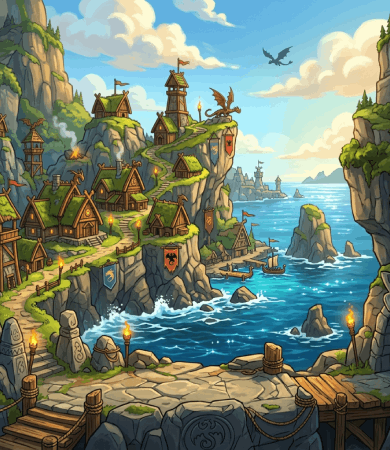
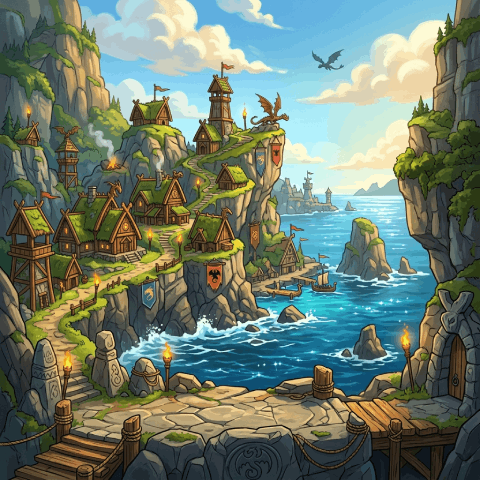
Per-device backgrounds: 390x450 for Bip 6, 480x480 full-bleed for Active 3 Balance

diff --git a/page/layouts.js b/page/layouts.js
@@ -10,9 +10,11 @@
 //
 // Rules:
 // - This file owns everything that MAY differ per device: positions, sizes,
-//   insets, slot counts. Colors, fonts, alphas, radii, asset paths and
-//   asset-intrinsic numbers (energy-bar slot map, badge heuristics) stay in
-//   ./index.style.js and are identical on all devices.
+//   insets, slot counts, plus the background image sources (BG_HOME_SRC /
+//   BG_DRAGON_SRC — 390x450 art for Bip 6, 480x480 art for round). Colors,
+//   fonts, alphas, radii, other asset paths and asset-intrinsic numbers
+//   (energy-bar slot map, badge heuristics) stay in ./index.style.js and
+//   are identical on all devices.
 // - Zepp OS IMG widgets draw 1:1 (no runtime scaling), so a layout must never
 //   size a widget box smaller than its PNG source — that would crop the art.
 //   All icon/bar/dragon sizes below are therefore identical across profiles;
@@ -53,6 +55,8 @@ const DEVICE_SOURCE_PROFILE = {
 // ---------------------------------------------------------------------------
 export const BIP6_LAYOUT = {
   BG_X: 0, BG_Y: 0, BG_W: 390, BG_H: 450,
+  BG_HOME_SRC: 'bg/bg-home_390x450.png',
+  BG_DRAGON_SRC: 'bg/bg-dragon_390x450.png',
   PANEL_X: 25, PANEL_Y: 40, PANEL_W: 340, PANEL_H: 370,
   BTN_W: 160, BTN_H: 48, BTN_CENTER_X: 90, BTN_BOTTOM_OFFSET: 70,
   MODAL_PAD: 20, MODAL_TITLE_Y: 12, MODAL_TITLE_H: 34,
@@ -118,10 +122,12 @@ export const BIP6_LAYOUT = {
 // bottom-anchored modal element lands on the same absolute Y as before.
 // ---------------------------------------------------------------------------
 export const ROUND480_LAYOUT = {
-  // round: native 390x450 art centered (45,15); full-bleed would leave an
-  // asymmetric empty strip (source is smaller than the box). TODO: add true
-  // 480x480 bg assets, then switch to (0,0,480,480).
-  BG_X: 45, BG_Y: 15, BG_W: 390, BG_H: 450,
+  // round: native 480x480 full-bleed art (see assets.json — bg-home and
+  // bg-dragon are produced in both 390x450 for Bip 6 and 480x480 for
+  // Active 3 / Balance).
+  BG_X: 0, BG_Y: 0, BG_W: 480, BG_H: 480,
+  BG_HOME_SRC: 'bg/bg-home_480x480.png',
+  BG_DRAGON_SRC: 'bg/bg-dragon_480x480.png',
   // round: centered 320x340; see module header for the corner math.
   PANEL_X: 80, PANEL_Y: 70, PANEL_W: 320, PANEL_H: 340,
   BTN_W: 160, BTN_H: 48,
@@ -254,6 +260,8 @@ export let BG_X = BIP6_LAYOUT.BG_X;
 export let BG_Y = BIP6_LAYOUT.BG_Y;
 export let BG_W = BIP6_LAYOUT.BG_W;
 export let BG_H = BIP6_LAYOUT.BG_H;
+export let BG_HOME_SRC = BIP6_LAYOUT.BG_HOME_SRC;
+export let BG_DRAGON_SRC = BIP6_LAYOUT.BG_DRAGON_SRC;
 export let PANEL_X = BIP6_LAYOUT.PANEL_X;
 export let PANEL_Y = BIP6_LAYOUT.PANEL_Y;
 export let PANEL_W = BIP6_LAYOUT.PANEL_W;
@@ -426,6 +434,8 @@ export function refreshLayout(info) {
   BG_Y = L.BG_Y;
   BG_W = L.BG_W;
   BG_H = L.BG_H;
+  BG_HOME_SRC = L.BG_HOME_SRC;
+  BG_DRAGON_SRC = L.BG_DRAGON_SRC;
   PANEL_X = L.PANEL_X;
   PANEL_Y = L.PANEL_Y;
   PANEL_W = L.PANEL_W;

diff --git a/page/index.js b/page/index.js
@@ -1,6 +1,6 @@
 import hmUI from '@zos/ui';
 import { deviceAdapter } from '../utils/deviceAdapter.js';
-import { BG_X, BG_Y, BG_W, BG_H, DEVICE, refreshLayout } from './layouts.js';
+import { BG_X, BG_Y, BG_W, BG_H, BG_HOME_SRC, BG_DRAGON_SRC, DEVICE, refreshLayout } from './layouts.js';
 import { storageAdapter } from '../utils/storageAdapter.js';
 import { timeAdapter } from '../utils/timeAdapter.js';
 import { sensorAdapter } from '../utils/sensorAdapter.js';
@@ -10,8 +10,6 @@ import {
   ACTION_SIDE_PAD,
   ASSET_BEAST_72,
   ASSET_BEAST_128,
-  ASSET_BG_DRAGON,
-  ASSET_BG_HOME,
   ASSET_CLOSE_36,
   ASSET_COIN_64,
   ASSET_DANGER_84,
@@ -272,10 +270,11 @@ import { createGameEngine, coerceLoadedSave } from '../engine/engine.js';
  * - engine/types.ts   — every shared type.
  *
  * All visual constants (palette, fonts, assets) live in ./index.style.js
- * and all placement coordinates/sizes live in ./layouts.js (per-device
- * tables: Bip 6 rect vs round 480x480, selected at startup via
- * deviceAdapter.getInfo() + refreshLayout()). This file holds no colors,
- * sizes, positions or image paths — and no device forks.
+ * and all placement coordinates/sizes plus background image sources live
+ * in ./layouts.js (per-device tables: Bip 6 rect vs round 480x480,
+ * selected at startup via deviceAdapter.getInfo() + refreshLayout()).
+ * This file holds no colors, sizes, positions or image paths — and no
+ * device forks.
  *
  * This file keeps only presentation: widget helpers, screen rendering,
  * navigation index, and transient animation state (egg-spin frames,
@@ -767,7 +766,7 @@ function openLockedFight(base, lines, outcome, delayMs) {
 
 function renderMain(width) {
   const economy = engine.getEconomyView();
-  addImg(BG_X, BG_Y, BG_W, BG_H, ASSET_BG_HOME);
+  addImg(BG_X, BG_Y, BG_W, BG_H, BG_HOME_SRC);
 
   // Balance: large coin centered with the amount on a dark pill right below.
   const balanceCx = Math.floor(width / 2);
@@ -800,7 +799,7 @@ function renderMain(width) {
 function renderDragon(width, view) {
   const breed = view.breed;
   const egg = view.stage === 'egg';
-  addImg(BG_X, BG_Y, BG_W, BG_H, ASSET_BG_DRAGON);
+  addImg(BG_X, BG_Y, BG_W, BG_H, BG_DRAGON_SRC);
   // Dim the bright bg artwork so the dragon and UI stay visible.
   addShade(0, 0, width, DEVICE.height);
 

diff --git a/page/index.style.js b/page/index.style.js
@@ -225,8 +225,12 @@ export const BEAST_WARN_FONT = FONT_16;
 export const COINS_FONT = FONT_20;
 
 // ---------------------------------------------------------------------------
-// Assets (every image path used by the page)
+// Assets (every image path used by the page, except the per-device
+// backgrounds — BG_HOME_SRC / BG_DRAGON_SRC live in ./layouts.js and are
+// picked via refreshLayout(): 390x450 art for Bip 6, 480x480 art for round).
 // ---------------------------------------------------------------------------
+// Deprecated Bip 6-only aliases — prefer BG_HOME_SRC / BG_DRAGON_SRC from
+// ./layouts.js (or re-exported below), which follow the active profile.
 export const ASSET_BG_HOME = 'bg/bg-home_390x450.png';
 export const ASSET_BG_DRAGON = 'bg/bg-dragon_390x450.png';
 export const ASSET_COIN_64 = 'ui/coin_64x64.png';
@@ -279,7 +283,7 @@ export function monsterAsset72(image) {
 // device — live in ./layouts.js; nothing is duplicated here.
 // ---------------------------------------------------------------------------
 export {
-  BG_X, BG_Y, BG_W, BG_H,
+  BG_X, BG_Y, BG_W, BG_H, BG_HOME_SRC, BG_DRAGON_SRC,
   PANEL_X, PANEL_Y, PANEL_W, PANEL_H,
   BTN_W, BTN_H, BTN_CENTER_X, BTN_BOTTOM_OFFSET,
   MODAL_PAD, MODAL_TITLE_Y, MODAL_TITLE_H,
